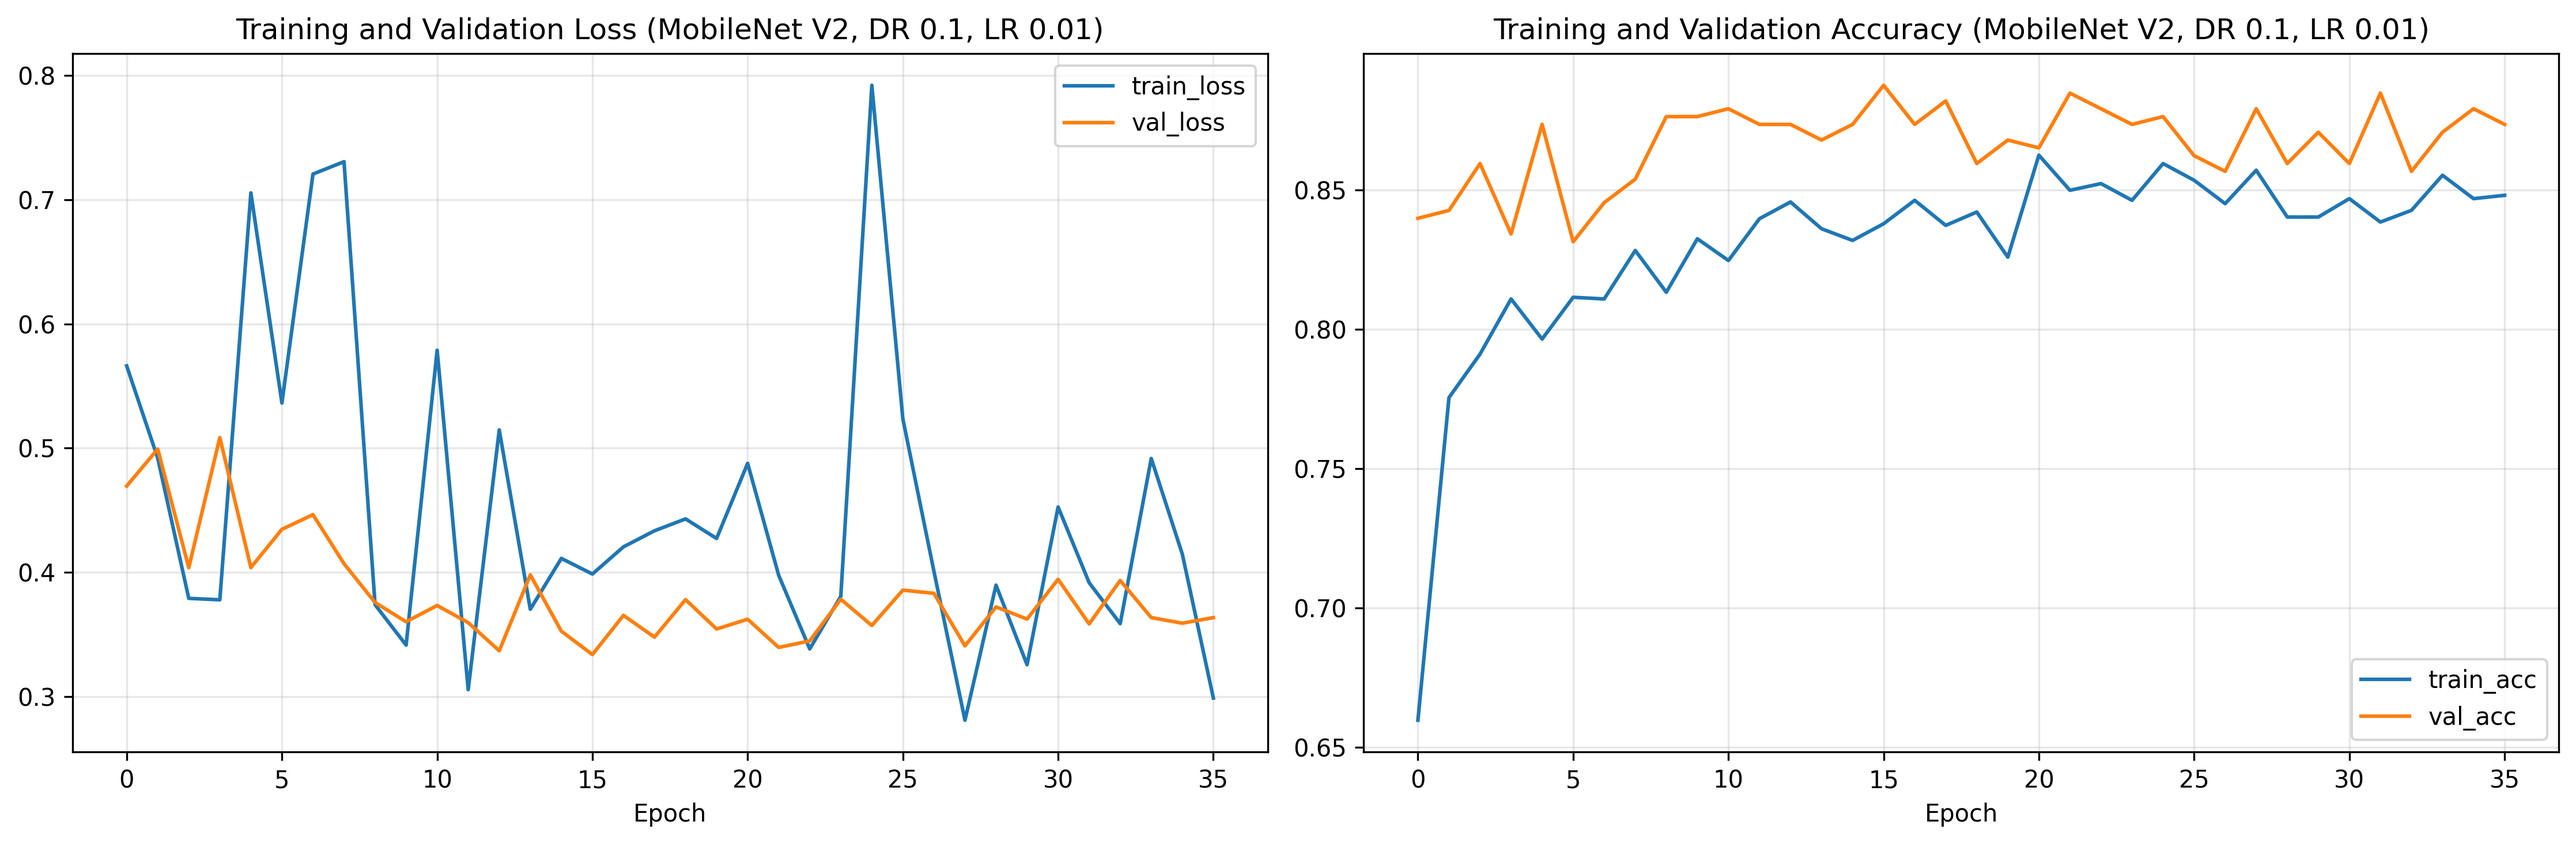
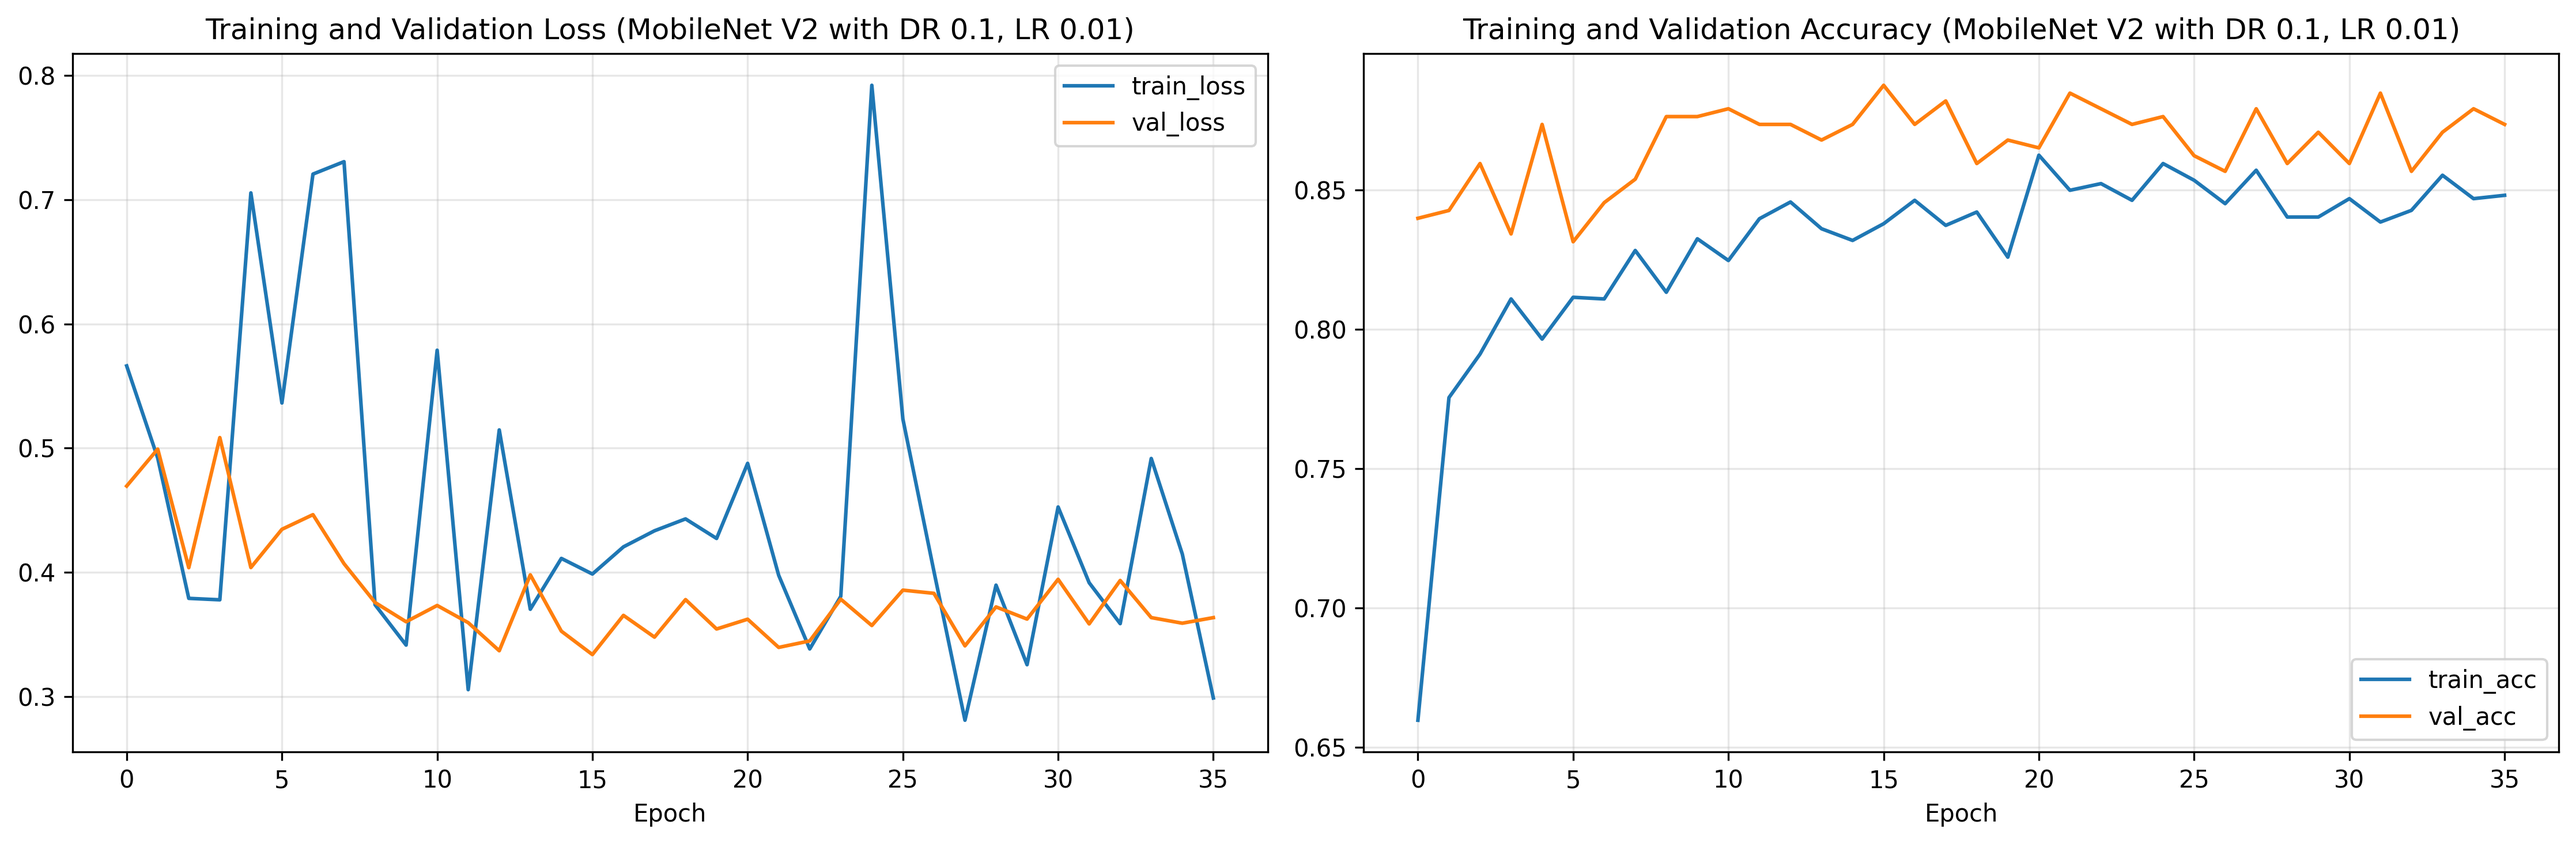
docs: polish dl analysis tuning nb (#65)
* docs: polish nb3 dl dataviz titles

* chore: update dataviz titles

* docs: polish dataviz titles

* docs: polish nb3 dl

* docs: add nb3 dl conclusion

Changed region(s): [[0.5597, 0.0, 0.964, 0.0614], [0.0933, 0.0, 0.4353, 0.0614]]

diff --git a/notebooks/reproducibility/03_Model_Analysis_Tuning_DL.py b/notebooks/reproducibility/03_Model_Analysis_Tuning_DL.py
@@ -398,7 +398,7 @@ cm_pivot = df_cm.pivot(
 
 plt.figure(figsize=(10, 8))
 sns.heatmap(cm_pivot, annot=True, fmt="g", cmap="Blues", cbar=False)
-plt.title("Baseline Confusion Matrix (MobileNet V2 with DR 0.1)")
+plt.title("Confusion Matrix (MobileNet V2 with DR 0.1)")
 plt.ylabel("Actual Class")
 plt.xlabel("Predicted Class")
 plt.xticks(rotation=45, ha="right")
@@ -511,10 +511,6 @@ preds = torch.cat(all_preds).numpy()
 targets = torch.cat(all_targets).numpy()
 probs = torch.cat(all_probs).numpy()
 splits = np.array(all_splits)
-
-# %% [markdown]
-# Some additional insights:
-# - Running this on a _ThinkPad T480_ with an _Intel Core i7-8550U_ processor (up to 4.00 GHz) achieved a mean inference time of 96.95 ms per image.
 
 # %% [markdown]
 # #### Top Confident Errors
@@ -787,8 +783,7 @@ for class_idx in range(num_classes):
     plot_idx += num_samples - n
 
 plt.suptitle(
-    "Baseline Grad-CAM Heatmaps on Sample Jute Leaf Disease Images\n"
-    "(MobileNet V2 with DR 0.1)",
+    "Grad-CAM Heatmaps on Sample Jute Leaf Disease Images\n(MobileNet V2 with DR 0.1)",
     fontsize=20,
     y=1.02,
 )
@@ -819,6 +814,8 @@ plt.show()
 # Thus, we will execute a second grid search with the ff. configurations:
 # - **Learning Rate**: `0.01`, `0.005`, `0.001`, `0.0005`, `0.0001`
 # - **Extended Patience**: `early_stopping_patience` raised to 20.
+#
+# Our results can be found [here](https://wandb.ai/grade-descent/jute-disease-detection/groups/MobileNet%20V2%20Finetune%20Grid/workspace).
 
 # %%
 # !uv run python scripts/run_grid_search.py \
@@ -987,15 +984,13 @@ ft_cm_pivot = df_ft_cm.pivot(
 fig, axes = plt.subplots(1, 2, figsize=(18, 8))
 
 sns.heatmap(cm_pivot, annot=True, fmt="g", cmap="Blues", cbar=False, ax=axes[0])
-axes[0].set_title("Baseline Confusion Matrix (MobileNet V2 with DR 0.1)")
+axes[0].set_title("Confusion Matrix (MobileNet V2 with DR 0.1)")
 axes[0].set_ylabel("Actual Class")
 axes[0].set_xlabel("Predicted Class")
 axes[0].tick_params(axis="x", rotation=45)
 
 sns.heatmap(ft_cm_pivot, annot=True, fmt="g", cmap="Oranges", cbar=False, ax=axes[1])
-axes[1].set_title(
-    "Finetuned Confusion Matrix (MobileNet V2 with DR 0.1, LR 0.01)"
-)
+axes[1].set_title("Confusion Matrix (MobileNet V2 with DR 0.1, LR 0.01)")
 axes[1].set_ylabel("Actual Class")
 axes[1].set_xlabel("Predicted Class")
 axes[1].tick_params(axis="x", rotation=45)
@@ -1202,7 +1197,7 @@ for class_idx in range(num_classes):
     plot_idx += num_samples - n
 
 plt.suptitle(
-    "Finetuned Grad-CAM Heatmaps on Sample Jute Leaf Disease Images\n"
+    "Grad-CAM Heatmaps on Sample Jute Leaf Disease Images\n"
     "(MobileNet V2 with DR 0.1, LR 0.01)",
     fontsize=20,
     y=1.02,
@@ -1217,7 +1212,7 @@ plt.show()
 # %% [markdown]
 # ## Conclusion
 #
-# > continue here
+# Through our analyses, we have shown that while fine-tuning the learning rate to $0.01$ can slightly improve accuracy, the model reaches a performance plateau due to major problems such as focusing on irrelevant details (e.g., background, other visual features) and failing to distinguish between _Cercospora Leaf Spot_ and _Mosaic_ diseases due to visual similarities. Future work can consider improving the data preprocessing pipeline or exploring multi-label classification or object detection to consider cases where a jute leaf may exhibit multiple diseases or multiple jute leaves are present in a single image.
 
 # %% [markdown]
 # ## References
